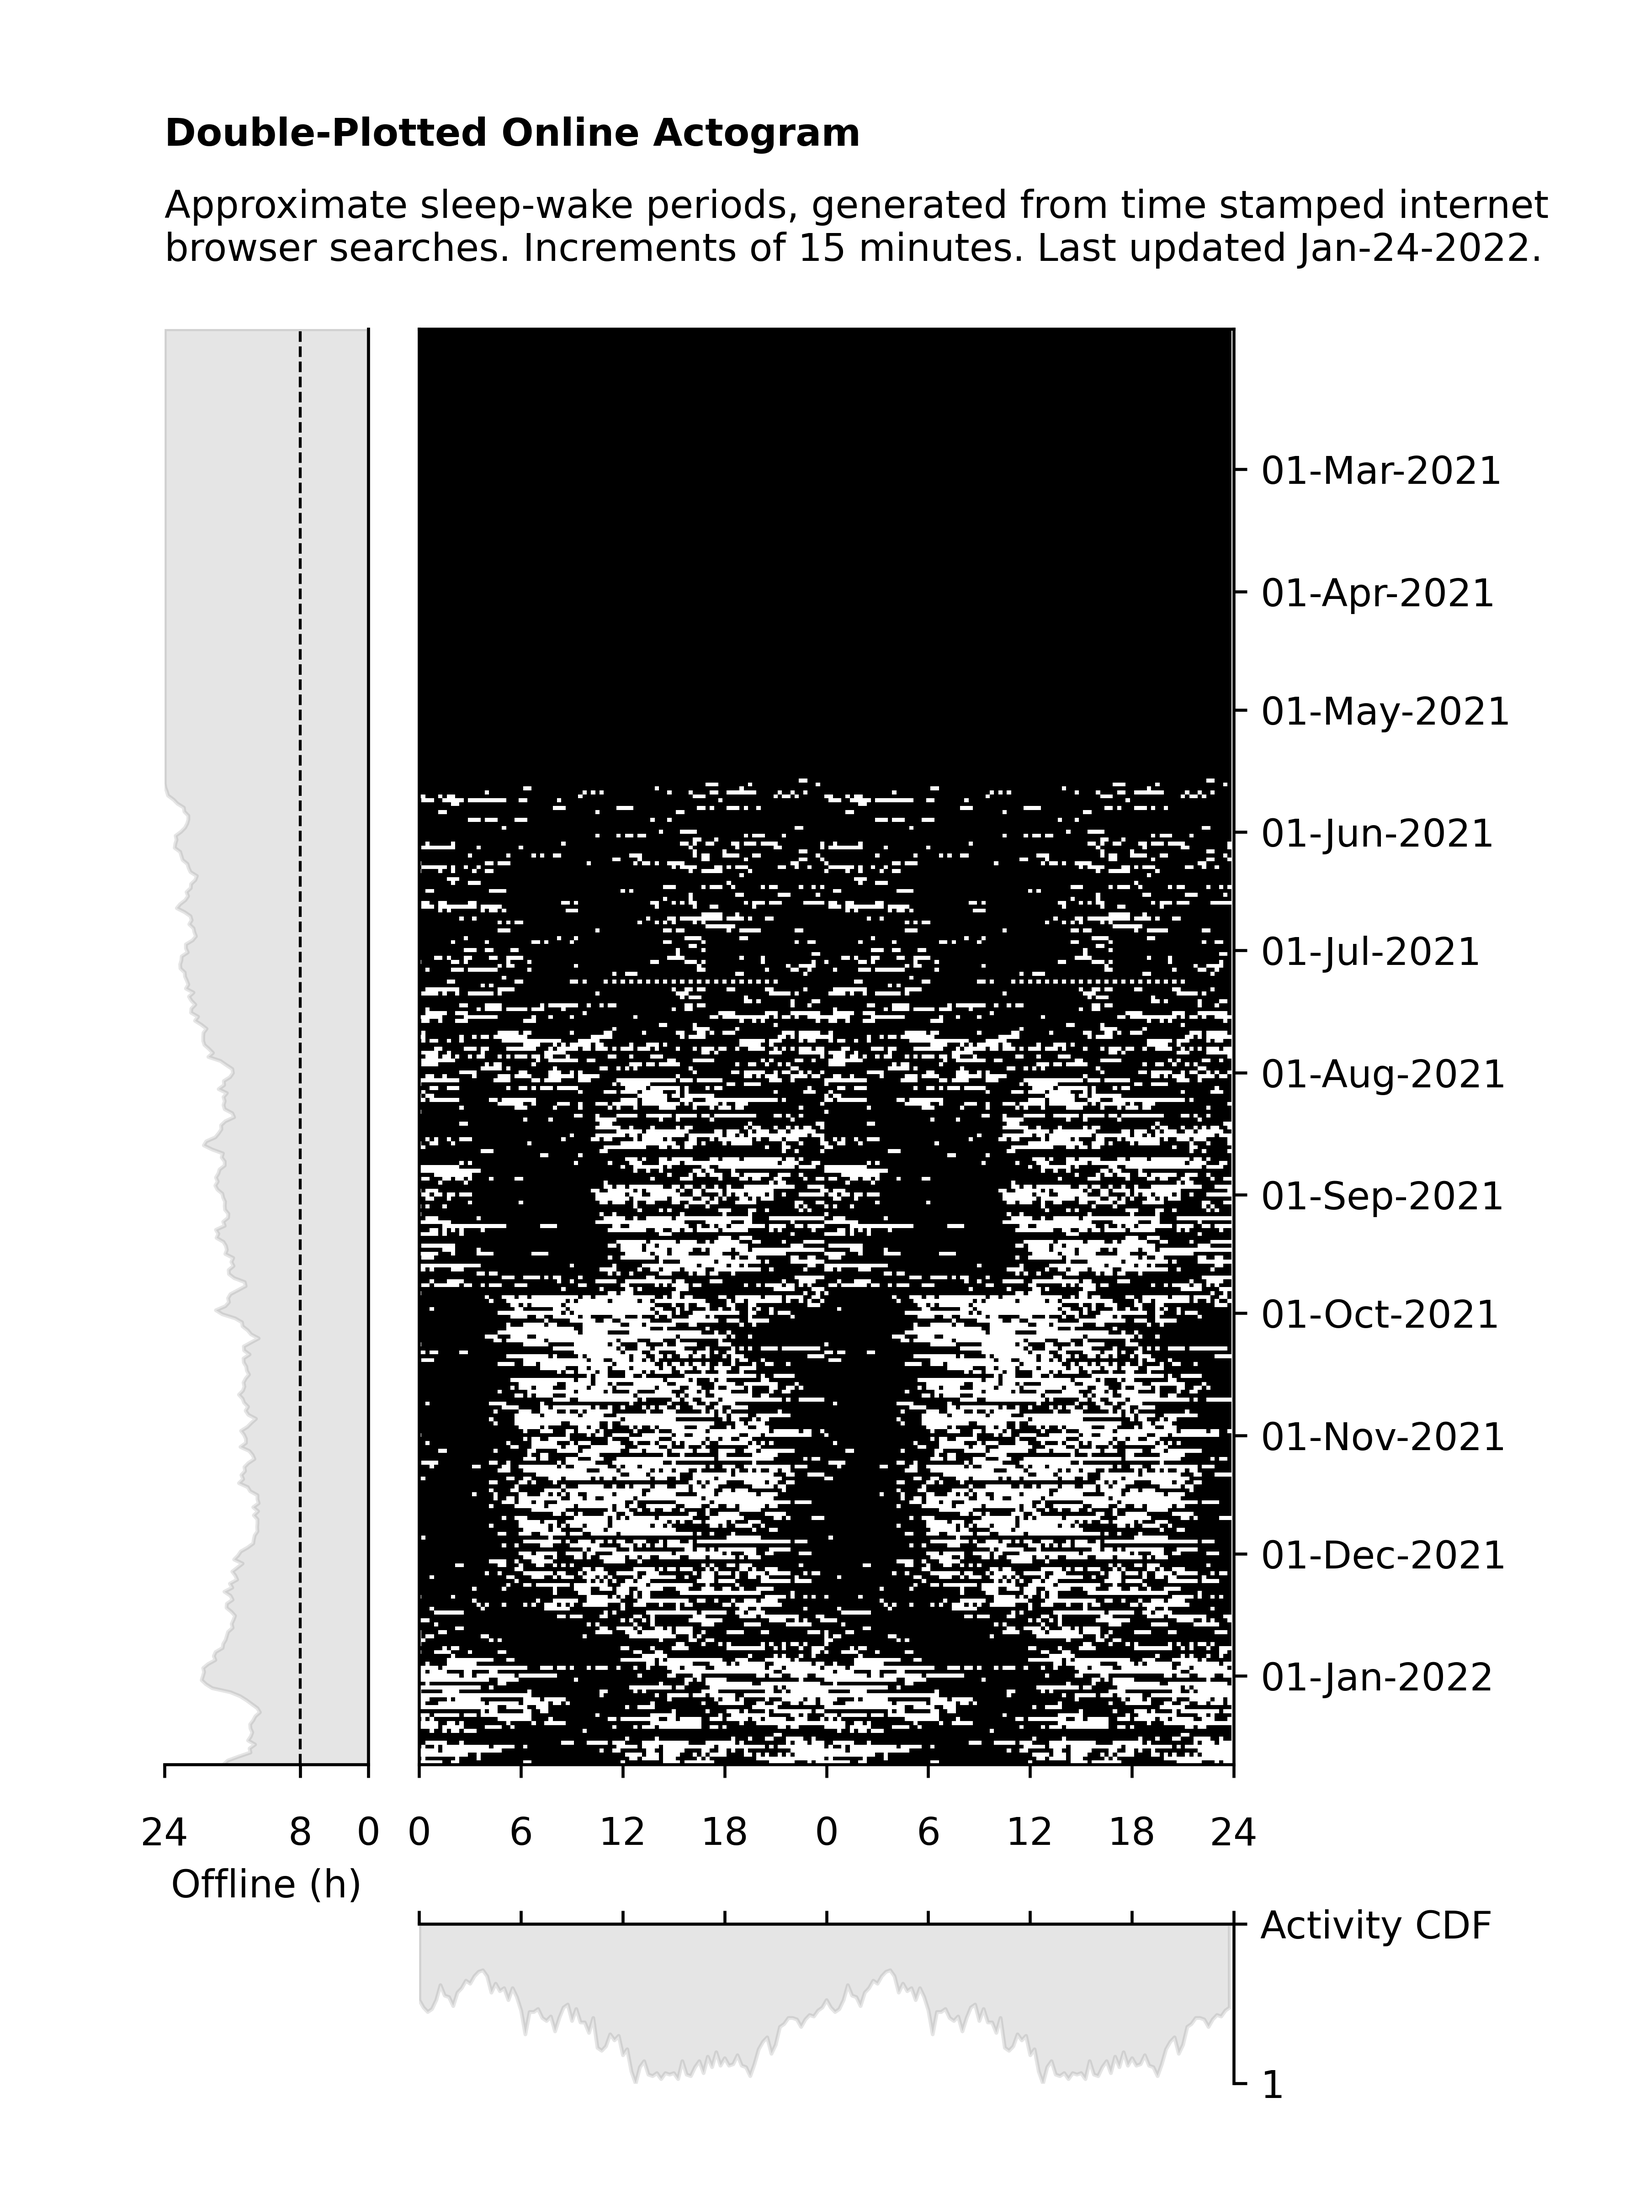
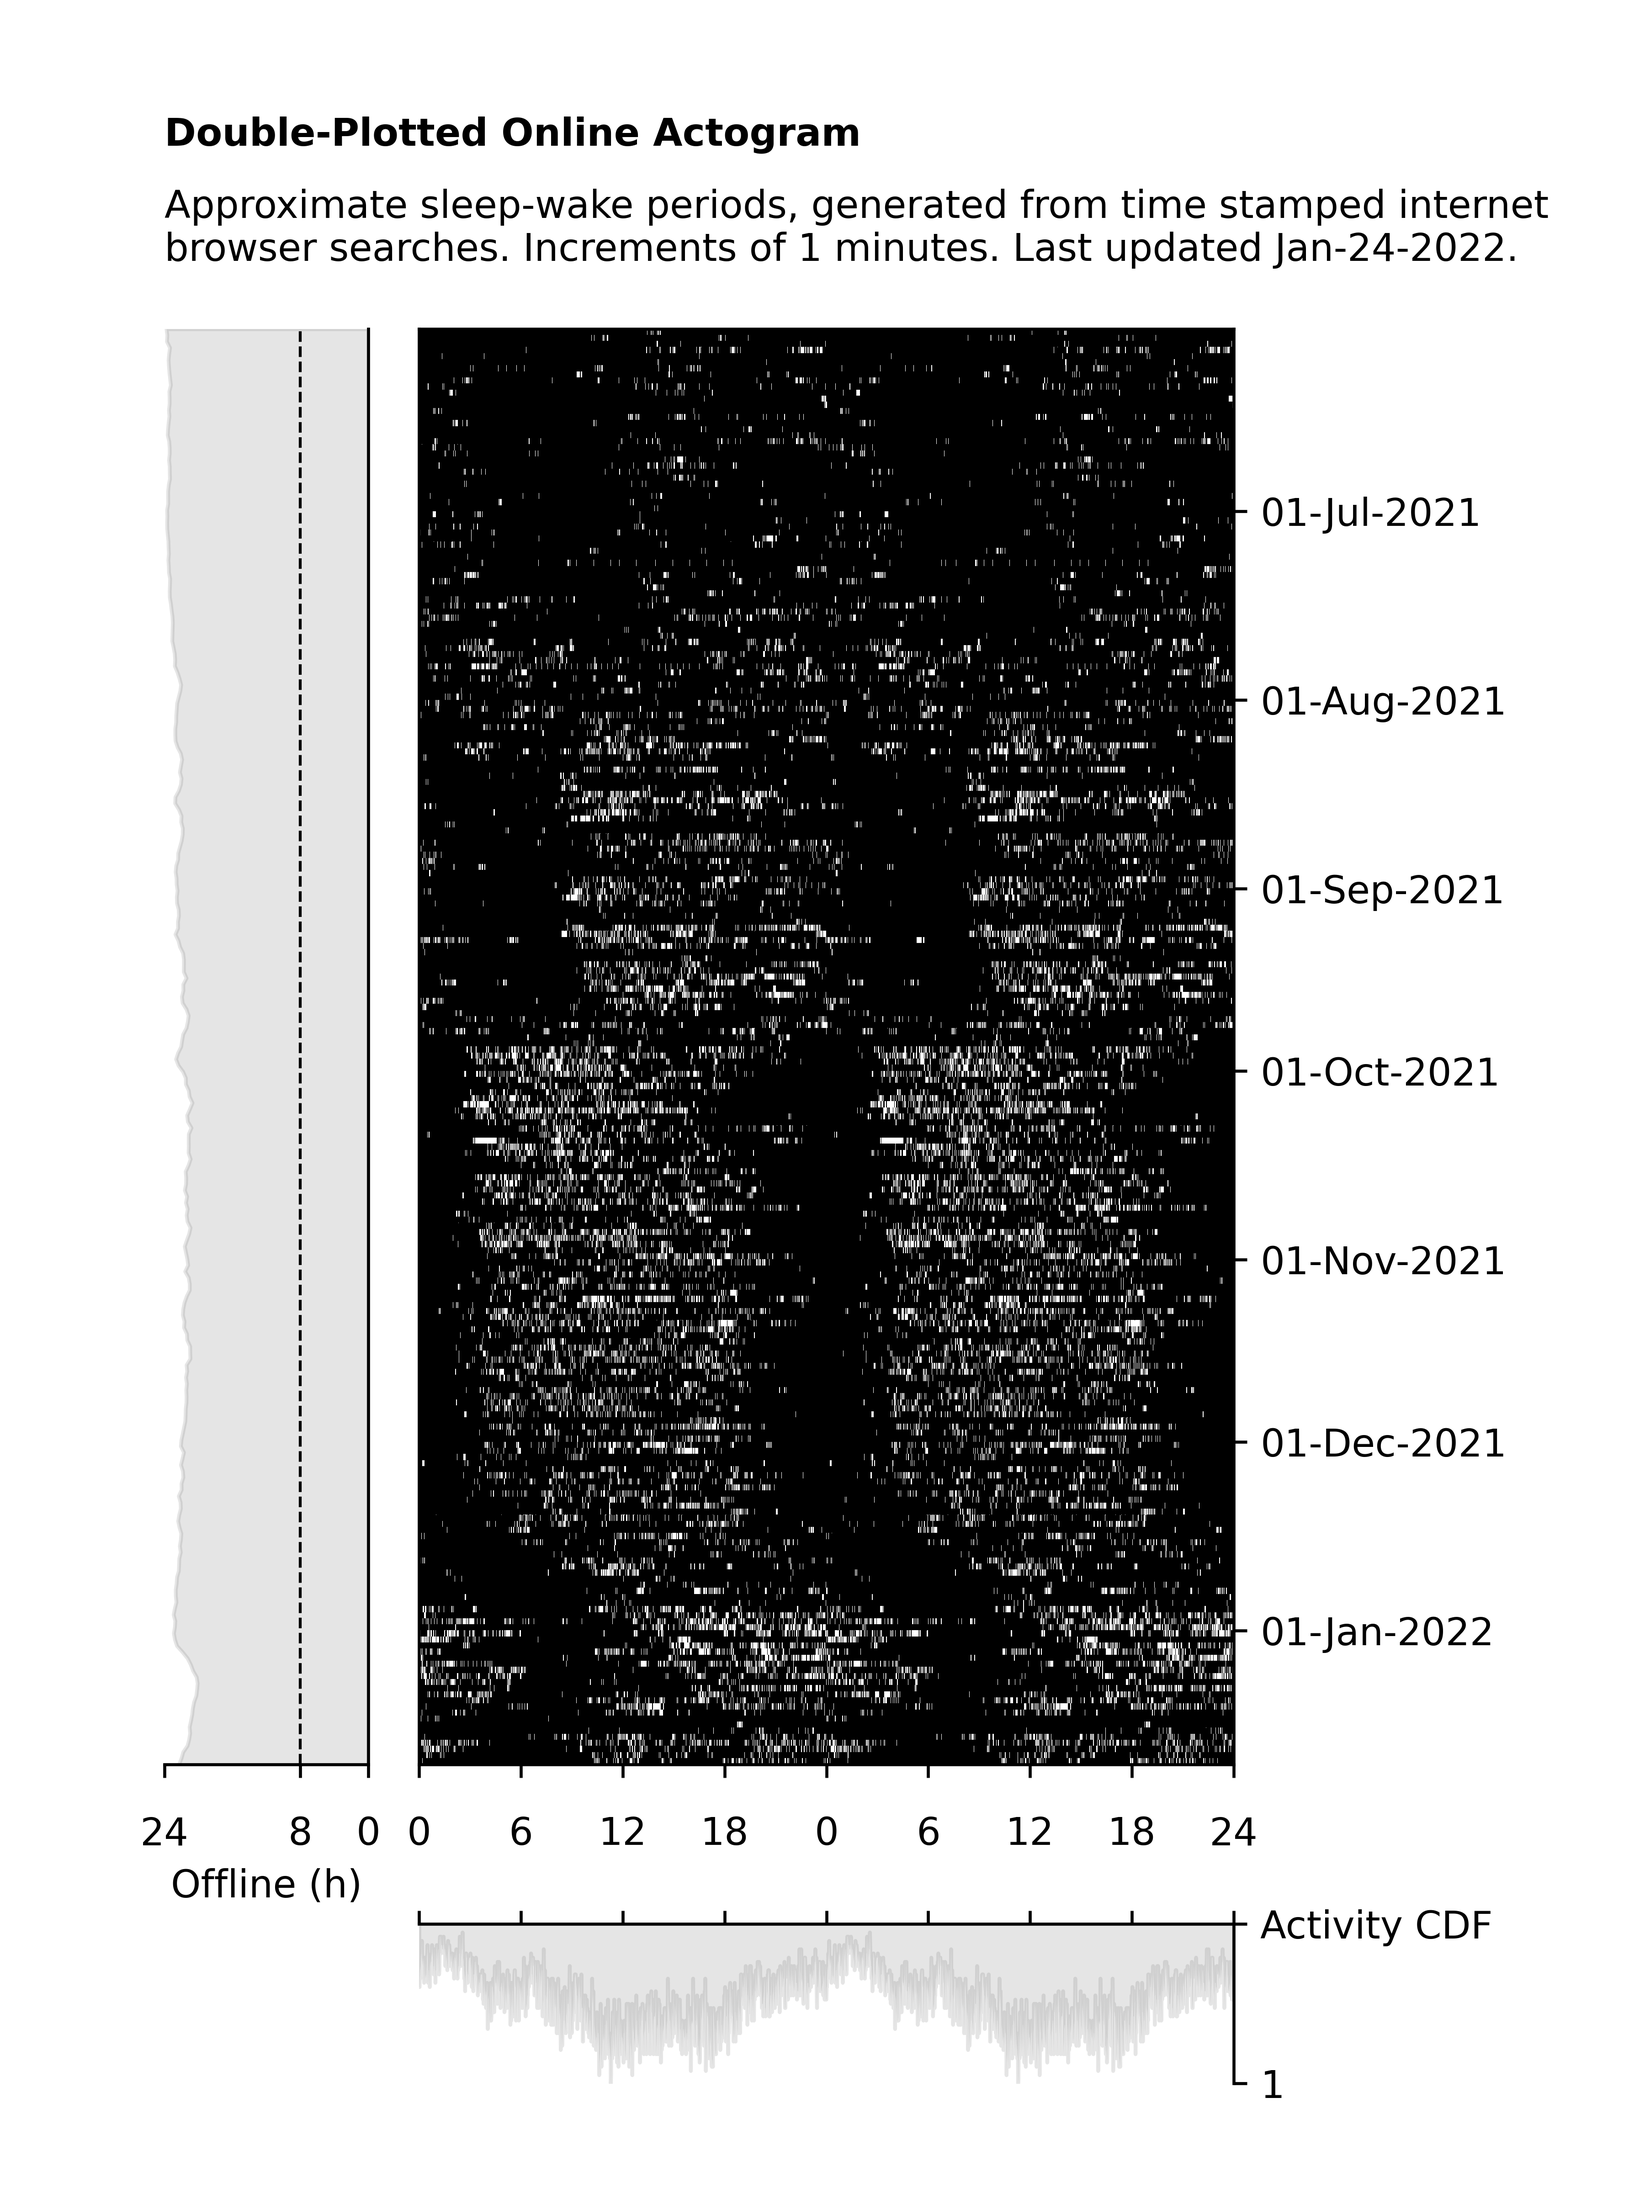
additional quick fixes, updates to readme

diff --git a/actogram.py b/actogram.py
@@ -1,12 +1,7 @@
-##############################################################################
-#
-# IMPORT LIBRARIES
-#
-##############################################################################
-
 import os
 import sys
 import sqlite3
+import argparse
 from shutil import copy, rmtree
 
 import numpy as np
@@ -17,19 +12,32 @@ import matplotlib.pyplot as plt
 import matplotlib.dates as mdates
 import matplotlib.gridspec as gridspec
 
+#%% General plot configurations
 
+plt.close('all'); plt.style.use('default')
+for tick in ['xtick.minor.visible', 'ytick.minor.visible']:
+    plt.rcParams[tick] = False
+
+#%%
 class Actography:
-    def __init__(self):
+    def __init__(self, ARGS):
 
-        self.freq ='15T'
+        ARGS = list(vars(ARGS).values())
+        dims, freq, start, end, hblur, dblur, norm, printer = ARGS
 
-        self.hourly_blur = False  # median filter size
-        self.daily_blur = False  # median filter size
-        self.normalize = True
-        self.weekend_color_support = False
+        self.dims = dims
+        self.freq = freq
 
+        if start is not None: self.start = pd.Timestamp(start)
+        else: self.start = pd.Timestamp.today() - pd.DateOffset(days=180)
         self.end = pd.Timestamp.today() - pd.DateOffset(days=1)
-        self.start = pd.Timestamp.today() - pd.DateOffset(days=365)
+
+        self.hblur = hblur
+        self.dblur = dblur
+        self.norm = norm
+
+        self.printer_friendly = printer
+        self.weekend_color_support = False
 
         self.safari_file = 0
         self.chrome_file = 0
@@ -149,7 +157,7 @@ class Actography:
         z = z.T
         for row, zhour in enumerate(z):
             z[row] = ndimage.median_filter(
-                zhour, size=self.hourly_blur, mode='wrap')
+                zhour, size=self.hblur, mode='wrap')
         z = z.round()
 
         return z.T
@@ -162,7 +170,7 @@ class Actography:
 
         for row, zday in enumerate(z):
             z[row] = ndimage.median_filter(
-                zday, size=self.daily_blur, mode='reflect')
+                zday, size=self.dblur, mode='reflect')
 
         return z
 
@@ -219,27 +227,23 @@ class Actography:
             [[np.nan] * len(self.df.columns)]*app, columns=df.columns))
         zz = df.z.values.reshape(len(yy), len(xx), order='F')
 
-        if self.hourly_blur:
-            zz = self.hourly_blur(zz)
-        if self.daily_blur:
-            zz = self.daily_blur(zz)
-        if self.normalize:
-            zz = self.normalize_activity(zz, intv=1)
+        if self.hblur: zz = self.hourly_blur(zz)
+        if self.dblur: zz = self.daily_blur(zz)
+        if self.norm:  zz = self.normalize_activity(zz, intv=1)
 
         self.DD = np.array(pd.to_datetime(xx, unit='D', origin='julian').to_list())
         self.HH = np.arange(df.y.min(), 2 * (df.y.max()+1), self.freq_intv)
-
         self.ZZ = np.tile(zz, (2, 1)).T
 
         if self.weekend_color_support:
-            week = np.array([i.weekday() < 5 for i in act.DD], dtype=int) + 1
+            week = np.array([i.weekday() < 5 for i in self.DD], dtype=int) + 1
             self.ZZ *= week[:, None]
 
         self.df = df  # pass the dataframe back out
 
-    def plot_the_actogram(self, ax, printer_friendly=False, landscape=False):
+    def plot_the_actogram(self, ax, landscape=False):
 
-        cmap = 'binary' if printer_friendly else 'binary_r'
+        cmap = 'binary' if self.printer_friendly else 'binary_r'
 
         if landscape:
 
@@ -280,9 +284,9 @@ class Actography:
 
     def plot_the_cdf(self, ax, ref_ax):
 
-        ax.fill_between(act.HH,
-                        np.nansum(act.ZZ, axis=0) /
-                        np.nansum(act.ZZ, axis=0).max(),
+        ax.fill_between(self.HH,
+                        np.nansum(self.ZZ, axis=0) /
+                        np.nansum(self.ZZ, axis=0).max(),
                         color='grey', alpha=0.2)
 
         ax.xaxis.tick_top()
@@ -291,7 +295,7 @@ class Actography:
         ax.spines['bottom'].set_visible(False)
 
         ax.set_ylim([0, 1])
-        ax.set_xlim(act.HH.min(), act.HH.max())
+        ax.set_xlim(self.HH.min(), self.HH.max())
 
         ax.set_xticks(ref_ax.get_xticks())
         ax.set_xticklabels([])
@@ -300,15 +304,7 @@ class Actography:
         ax.set_yticklabels(['Activity CDF', 1])
 
         ax.yaxis.tick_right()
-        
-        """
-        ax.yaxis.set_label_position("right")
-        
-        ax.set_ylabel('Activity CDF',
-                      x=0, y=1,
-                      rotation=0,
-                      ha='left', va='top')
-                      #transform=ax.transAxes)"""
+
         ax.invert_yaxis()
 
         return ax
@@ -329,20 +325,15 @@ class Actography:
         ax.set_xlabel('Offline (h)')
 
         ax.set_xlim(0, 24)
-        ax.set_ylim(bottom=act.end - pd.DateOffset(days=7), top=act.start)
+        ax.set_ylim(bottom=self.end - pd.DateOffset(days=7), top=self.start)
         ax.tick_params(axis='x', which='major', pad=10)
         ax.invert_xaxis()
 
         return ax
 
-    def saveit(self, fig, orientation='vertical'):
-
-        plt.savefig('actograms/actogram_' + orientation +'_' +
-                    str(pd.to_datetime('today'))[0:10] + '.png', dpi=600)
-
     def plotter(self, printer_friendly=False):
 
-        fig, ax = plt.subplots(figsize=DIMS)
+        fig, ax = plt.subplots(figsize=self.dims)
         plt.subplots_adjust(left=0.1, right=0.75,
                             bottom=0.05, top=0.85,
                             wspace=0.1, hspace=0.2)
@@ -377,15 +368,35 @@ class Actography:
 
         ax_dummy.axis('off')
 
+    def saveit(self, fig, orientation='vertical'):
+
+        plt.savefig('actograms/actogram_' + orientation +'_' +
+                    str(pd.to_datetime('today'))[0:10] + '.png', dpi=600)
+
+
+def main():
+
+    act = Actography(ARGS)
+    figgy = act.plotter()
+    act.saveit(figgy)
 
 if __name__ == '__main__':
 
-    plt.close('all'); plt.style.use('default')
-    for tick in ['xtick.minor.visible', 'ytick.minor.visible']:
-        plt.rcParams[tick] = False
+    parser = argparse.ArgumentParser()
+    parser.add_argument('--dims', type=tuple, action='store', default=(6,8))
+    parser.add_argument('--freq', type=str, action='store',default='1T')
 
-    DIMS=(6,8)
+    parser.add_argument('--start', type=str, action='store', default=None)
+    parser.add_argument('--end', type=str, action='store', default=None)
 
-    act = Actography()
-    figgy = act.plotter(printer_friendly=False)
-    act.saveit(figgy)
+    parser.add_argument('--hourly_blur', type=int, action='store', default=0)
+    parser.add_argument('--daily_blur', type=int, action='store', default=0)
+    parser.add_argument('--normalize', type=int, action='store', default=1)
+
+    parser.add_argument('--printer_friendly',  action='store', default=False)
+
+    ARGS, UNK = parser.parse_known_args()
+
+    print(ARGS)
+
+    main()

diff --git a/README.md b/README.md
@@ -3,20 +3,42 @@ Script to generate an 'online actogram' from google chrome or safari history fil
 
 Currently set to import Safari's History.db file AND chrome's History file where applicable on MacOS and Windows. History files are copied from their home directories to a temporary location in the working directory. The temporary copies are then deleted after the script has executed. 
 
-Now supports command line arugments, e.g.: 
-
-```python actogram.py --freq '30T' --blur True --blursize 9 --start '2020-01-01' --end '2020-08-04'```
-
---freq determines the binning frequency of online/offline hours, default is 30 minutes ('30T')
-
---blur sets whether or not a median_filter is applied over data, default is True
-
---blur_size determines how large median_filter kernel is, default is 9
-
---start_date sets the oldest time to plot from, default is 1 year prior to today's date
-
---end_date sets the newest time to plot until, default is today's date
-
-Plot can most simply be generated from the command line as:
+Plot can most simply be generated from the command line with:
 
 ```python actogram.py```
+
+
+Plots will be saved in a new sub-folder called "actograms" with appropriate timestamp and description. 
+
+
+Script now supports command line arguments (optional) for additional customizability, e.g.: 
+
+```python actogram.py --freq '15T' --daily_blur 3 --start '2020-01-01' ```
+```python actogram.py --freq '30T' --printer_friendly True```
+```python actogram.py --dims (8,8)```
+
+Where: 
+
+--freq determines the granularity of binned online/offline periods (default is 15 minutes increments, ex.  --freq '15T')
+--start_date sets initial date to plot from, default is 180 days ago (ex. --start_date '2022-01-01')
+—-daily_blur applies median filtering between days (off by default, ex. --daily_blur 3)  
+--period_blur applies median filtering between binned time periods (off by default, ex. --period_blur 5)
+--normalize normalizes search frequency against max, then applies binary mask (plot shows periods of some search history vs. none, on by default)
+--dims sets the relative dimensions of generated actogram plot (ex. --dims (4, 6))
+--printer_friendly sets whether activity is shown in black on white (friendly) or vice versa (False by default, ex. --printer_friendly True)
+
+
+_______________
+
+Fixes: 
+
+[Bug fix] Previously there was an artificially low minimum window for all generated plots. Plots can now be shown with minutes resolution 
+[Feature] Added "activity CDF" subplot to gauge periods of minimum and maximum activity 
+[Feature] Added cumulative "offline hours" subplot to estimate sleep per 24h period (NB: this yields artificially high results with high freq values)
+
+
+
+
+
+
+
